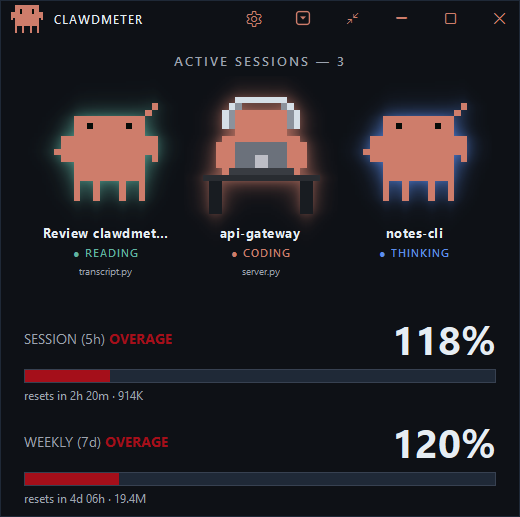
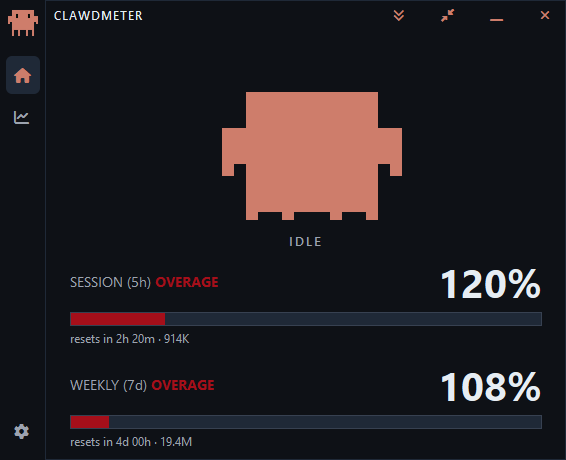
README: group Settings by tab + refresh overage/compact/mini shots
- Restructure the Settings section under per-tab headings (General / Display /
  Connection / Notifications / About) listing every setting, keeping the single
  General-tab screenshot.
- Re-render overage (both bars in red past 100% with OVERAGE tags), mini, and
  compact from --mock with the real font stack.

diff --git a/README.md b/README.md
@@ -238,36 +238,51 @@ now need.
 ## Settings
 
 Open Settings from the **gear at the bottom of the left nav rail** — it's a
-full page in the same window, alongside the Dashboard and Stats, organized into
-tabs (**General**, **Display**, **Connection**, **Notifications**, **About**)
-that each scroll on their own.
+full page in the same window, alongside the Dashboard and Stats, split across
+five tabs that each scroll on their own. Here's every setting, grouped by tab.
 
-![Clawdmeter-Windows settings panel](assets/Screenshot-2-Settings.png)
+![Clawdmeter-Windows settings panel — the General tab and the tab rail](assets/Screenshot-2-Settings.png)
 
-- **Credentials** — by default the app reads `~/.claude/.credentials.json`. Use
-  **Use alternative credentials** (or set `CLAUDE_CREDENTIALS_PATH`) to point at
-  a non-default `.credentials.json`.
-- **Token** — Claude's OAuth access token expires roughly every 8 hours,
-  which would otherwise blank the dashboard. With **Auto-refresh when expired**
-  on (the default), the app mints a fresh token automatically so it stays live.
-  The **Refresh token now** button is a manual override and is enabled only when
-  the token is actually expired.
-- **Window** — toggle **Always on top**, **Auto-hide title bar**, and **Quit on
-  close** (closes the app instead of minimizing to the tray).
+### General
+
+- **Window** — toggle **Always on top**, **Auto-hide title bar** (the title bar
+  collapses until you hover the top edge), and **Quit on close** (closes the app
+  instead of minimizing to the tray).
+- **Updates** — **Automatically check for updates** (on by default — checks the
+  GitHub releases on launch, then about once a day) and **Check for updates now**.
+- **Start menu** — add or remove a Start-menu shortcut (right-click it in Start
+  to pin).
+
+### Display
+
 - **Sessions** — **Show multiple sessions** (the session shelf; off shows a single
   mascot for the most recent session) and **Show subagents** (the child mascots).
   Both on by default.
 - **Token usage** — **Show token usage** toggles every token figure (the totals
   beside the bars, the per-session tiles and hover breakdown, and the tray line).
   On by default; read from your local transcripts, never the API.
+
+### Connection
+
+- **Credentials** — by default the app reads `~/.claude/.credentials.json`. Use
+  **Use alternative credentials** (or set `CLAUDE_CREDENTIALS_PATH`) to point at
+  a non-default `.credentials.json`.
+- **Token** — Claude's OAuth access token expires roughly every 8 hours, which
+  would otherwise blank the dashboard. With **Auto-refresh when expired** on (the
+  default), the app mints a fresh token automatically so it stays live. The
+  **Refresh token now** button is a manual override, enabled only when the token
+  is actually expired.
 - **Usage polling** — how often the app checks your usage. Each check is a tiny
   billed API request, so the interval is adjustable from **10 to 600 seconds**
-  (60 by default): lower is fresher but makes more requests; higher is gentler
-  on your quota when you leave it running. Out-of-range entries snap to the
-  nearest allowed value.
-- **Notifications** — **Notify on limit reset** pings you the moment a usage
-  limit resets so you know you can resume — but only when you were actually near
-  the limit (or already throttled), so it stays quiet otherwise.
+  (60 by default): lower is fresher but makes more requests; higher is gentler on
+  your quota when you leave it running. Out-of-range entries snap to the nearest
+  allowed value.
+
+### Notifications
+
+- **Notify on limit reset** pings you the moment a usage limit resets so you know
+  you can resume — but only when you were actually near the limit (or already
+  throttled), so it stays quiet otherwise.
 
   ![Clawdmeter-Windows limit-reset notification — "Claude limit reset: Session limit has reset, you can resume"](assets/Screenshot-Session-Limit-Reset.png)
 
@@ -286,8 +301,11 @@ that each scroll on their own.
   in-app hint says where to get its credential; keep topics/tokens/URLs secret,
   since anyone with them can post to or read your alerts. **Send test notification**
   fires every configured channel at once.
-- **Start menu** — add or remove a Start-menu shortcut (right-click it in Start
-  to pin).
+
+### About
+
+- Version, author, and credits — the source is **MIT** licensed; the Clawd mascot
+  is © Anthropic PBC and **not** covered by it; icons are Font Awesome Free.
 
 ## Credit
 